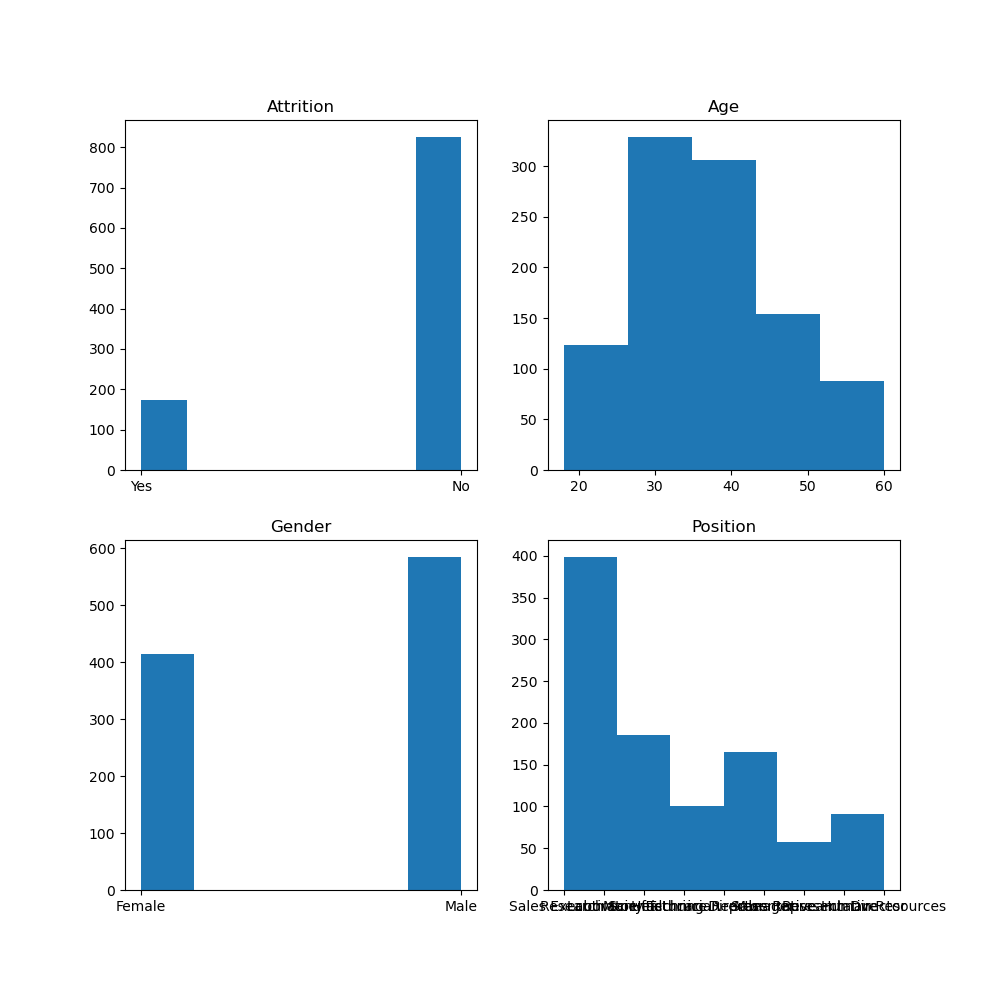
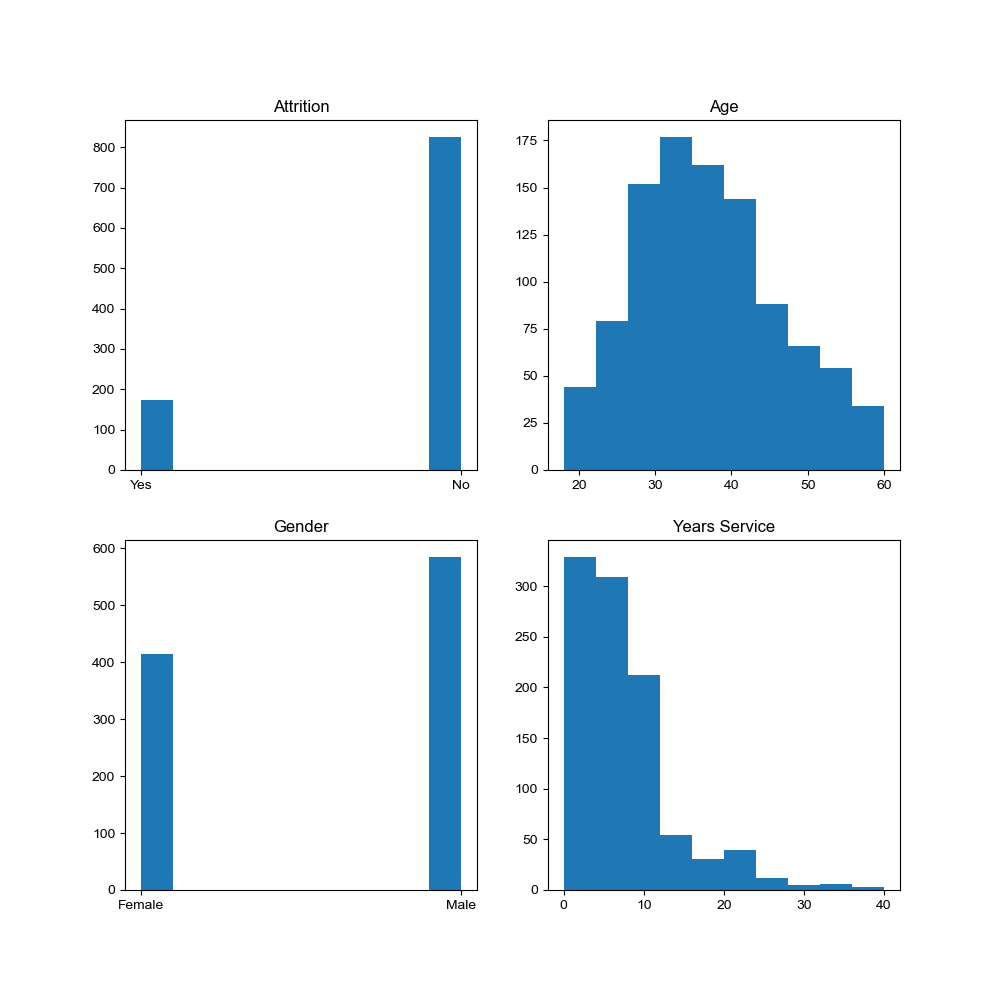
hist

diff --git a/code.py b/code.py
@@ -29,6 +29,7 @@ def summary_to_file():
     print ("\n")
     sys.stdout.close()
 
+
 #start with a simple histogram amended to have 4 on one page
 fig, axes = plt.subplots(2, 2, figsize=(10,10))
 
@@ -41,7 +42,7 @@ axes[0,1].hist(attrition['Age'], bins=10)
 axes[1,0].set_title("Gender")
 axes[1,0].hist(attrition['Gender'], bins=10)
 
-axes[1,1].set_title("Years of Employemnt")
+axes[1,1].set_title("Years Service")
 axes[1,1].hist(attrition['YearsAtCompany'], bins=10)
 #plt.show()
 
